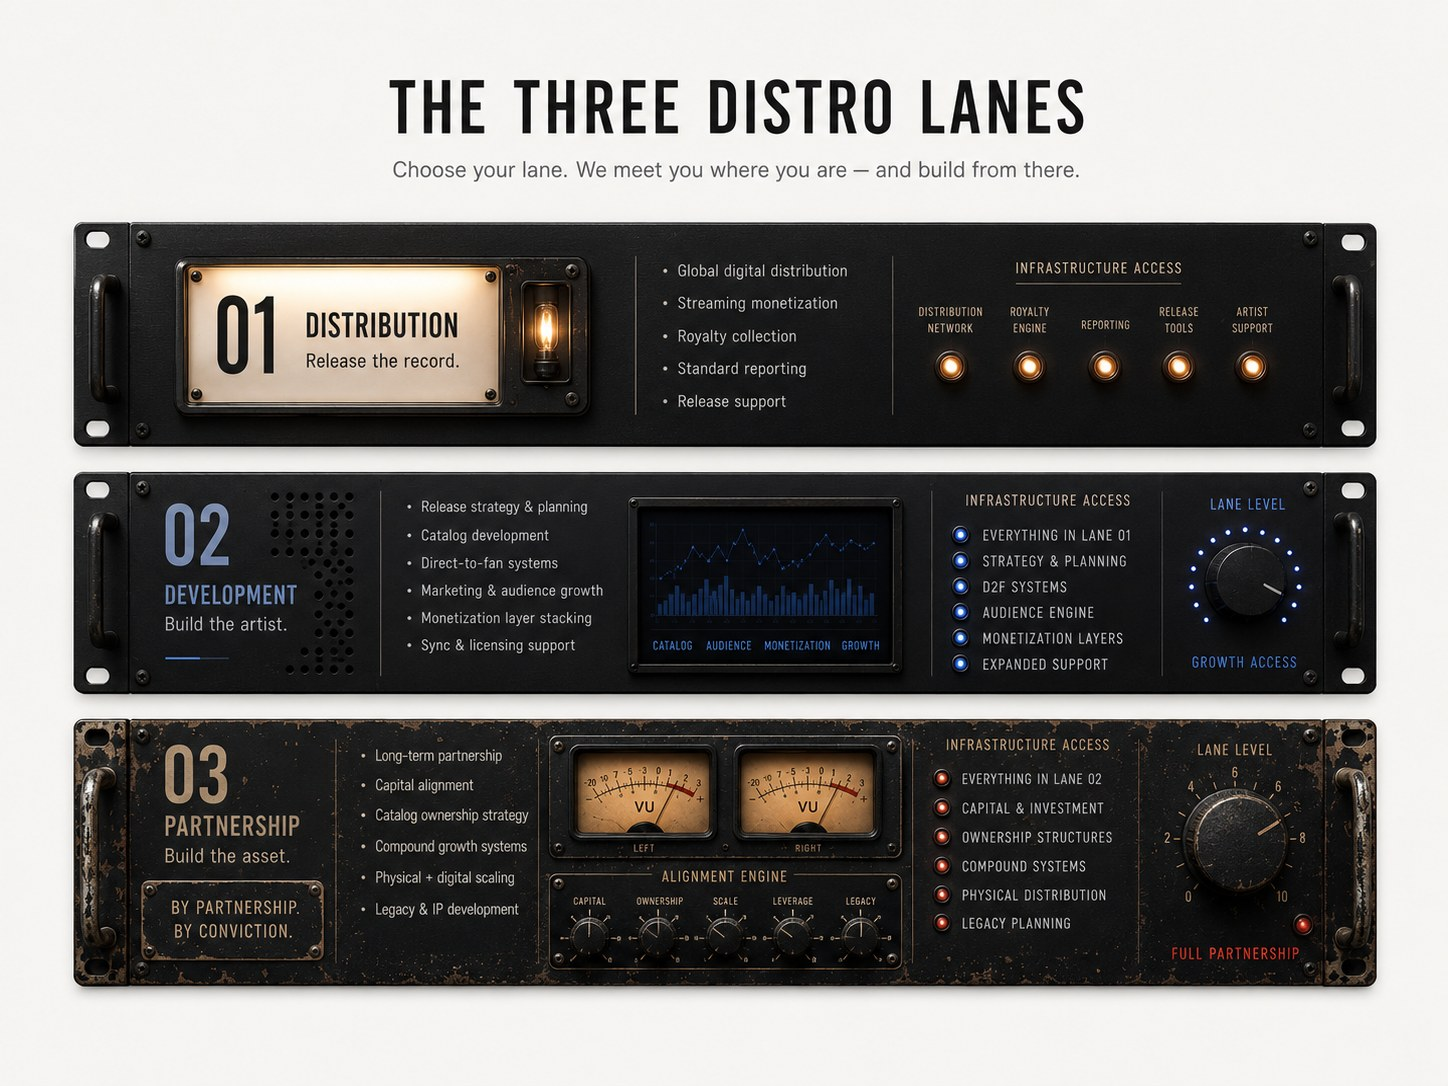
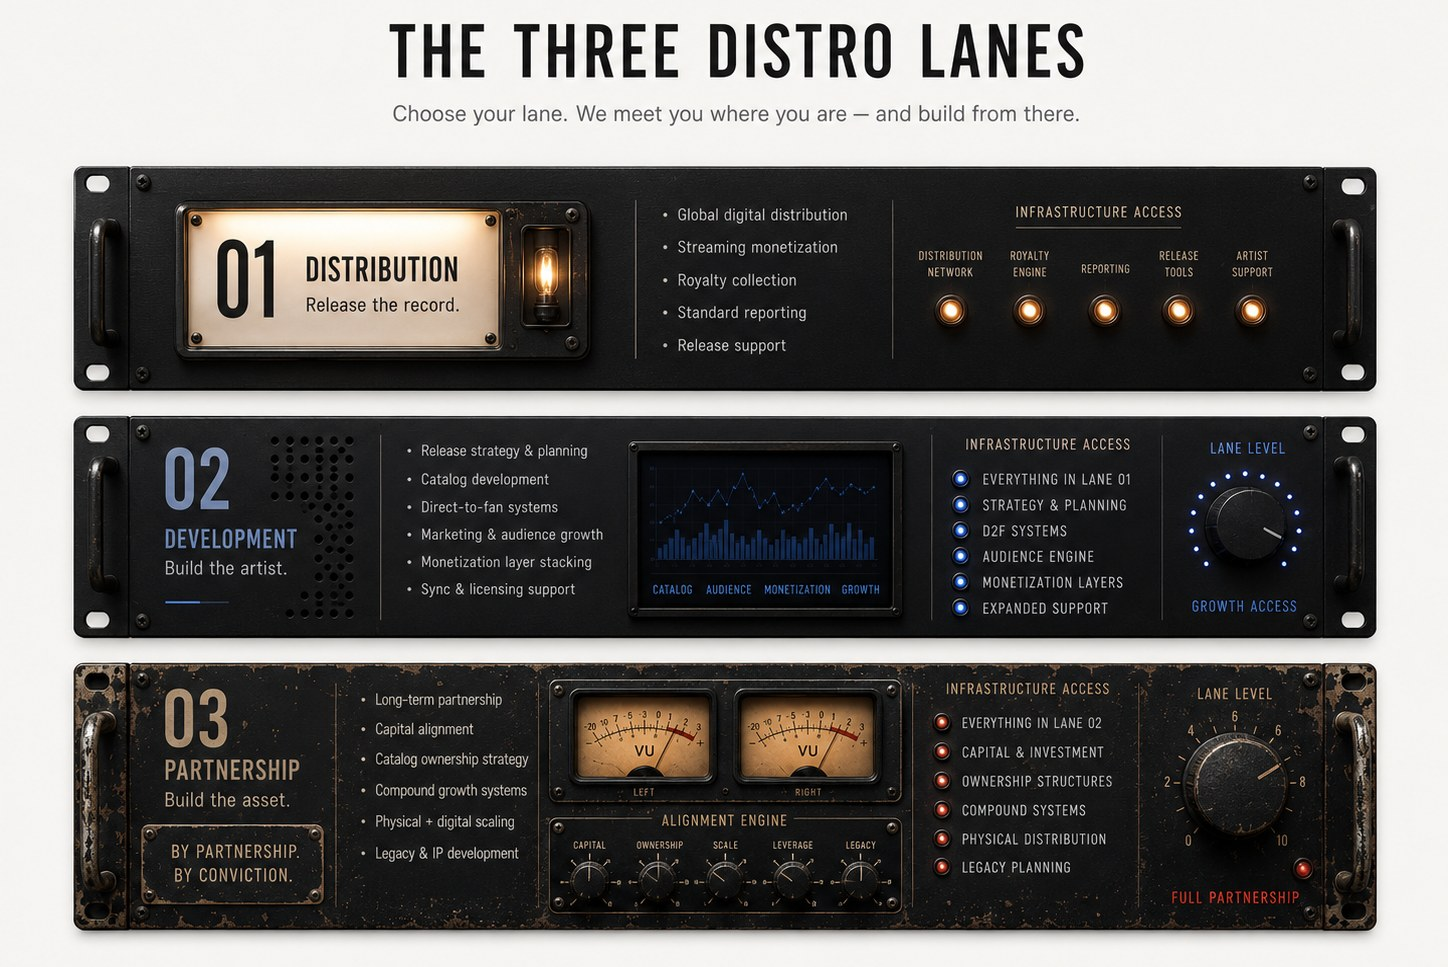
Homepage: even spacing between artworks - trim baked-in image margins
The gap under the engines art was ~2.5x the others, and CSS wasn't the
cause: the artworks carry their own blank paper inside the file. The
engines image had 77px dead space at its bottom and the lanes image
79px at its top, stacking on top of the section padding.

All five re-cut from the originals to a uniform ~2.2% internal margin
(engines 1024->920, lanes 1086->967, ownership 821->805, patchbay
941->905). Section padding now governs the rhythm alone; the features
section also drops py-14 -> py-10 to match every other band. Visual gap
between images 2 and 3 goes ~207px -> ~116px, matching the 118px above
it. sw sb-v16 + ?v=3 so phones get the recut files.

diff --git a/static/js/sw.js b/static/js/sw.js
@@ -1,7 +1,7 @@
 /* Street Banker service worker — conservative on purpose:
    static assets cache-first, pages always network (dashboards must
    never go stale), offline navigations get a friendly fallback. */
-var VERSION = "sb-v15";
+var VERSION = "sb-v16";
 var PRECACHE = ["/static/offline.html", "/static/img/streetbanker-logo.svg",
                 "/static/img/icon-192.png", "/static/manifest.json"];
 

diff --git a/templates/landing.html b/templates/landing.html
@@ -153,7 +153,7 @@
   {% endif %}
 
   <!-- 4. FEATURE CARDS -->
-  <section id="features" class="scroll-mt-6 py-14">
+  <section id="features" class="scroll-mt-6 py-10">
     {% if config.features_image %}
     {{ h.clickable_image(config.features_image) }}
     <div class="mt-3 grid grid-cols-2 gap-2 sm:hidden">

diff --git a/landing_config.py b/landing_config.py
@@ -25,7 +25,7 @@ def get_landing_config():
         # the four module cards are baked into the image). Real navigation
         # renders as buttons below it.
         "hero_image": {
-            "src": "/static/img/sb-hero.jpg?v=2",
+            "src": "/static/img/sb-hero.jpg?v=3",
             "blend": True,
             "fullbleed": True,
             "alt": "Release Music. Build Equity. — Infrastructure for the business of music: distribution, development, finance, physical, merch, and direct-to-fan systems built around artist ownership.",
@@ -120,7 +120,7 @@ def get_landing_config():
         # (left to right) rather than a duplicate button. Drop the file at
         # this path; falls back to the built-in cards until it exists.
         "features_image": {
-            "src": "/static/img/sb-engines.jpg?v=2",
+            "src": "/static/img/sb-engines.jpg?v=3",
             "blend": True,
             "fullbleed": True,
             "alt": "One Platform. Multiple Engines. — Distribution Engine, Artist Development, Asset Partnership, Direct-to-Fan, Catalog Engine, Backend Intelligence",
@@ -165,7 +165,7 @@ def get_landing_config():
             # Engagement buttons render BELOW it (the art has no empty space
             # to safely overlay). Drop the file at this exact path.
             "image": {
-                "src": "/static/img/sb-distro-lanes.jpg?v=2",
+                "src": "/static/img/sb-distro-lanes.jpg?v=3",
             "blend": True,
             "fullbleed": True,
                 "alt": "The Three Distro Lanes — 01 Distribution: release the record. 02 Development: build the artist. 03 Partnership: build the asset.",
@@ -229,7 +229,7 @@ def get_landing_config():
         # The record as an artist-owned system (flat-lay artwork; words are
         # in the image, navigation is real buttons).
         "ownership_image": {
-            "src": "/static/img/sb-ownership.jpg?v=2",
+            "src": "/static/img/sb-ownership.jpg?v=3",
             "blend": True,
             "fullbleed": True,
             "alt": "From Release to Ownership. — every record can expand into a real artist-owned system: merch, fan access, licensing, royalties, catalog.",
@@ -244,7 +244,7 @@ def get_landing_config():
         # Signal-routing patchbay: DSP / Sync / Merch / Fan Data / Catalog /
         # Revenue all patched into one system.
         "patchbay_image": {
-            "src": "/static/img/sb-patchbay.jpg?v=2",
+            "src": "/static/img/sb-patchbay.jpg?v=3",
             "blend": True,
             "fullbleed": True,
             "alt": "Patchbay — DSP, Sync, Merch, Fan Data, Catalog, and Revenue routed through one system.",
